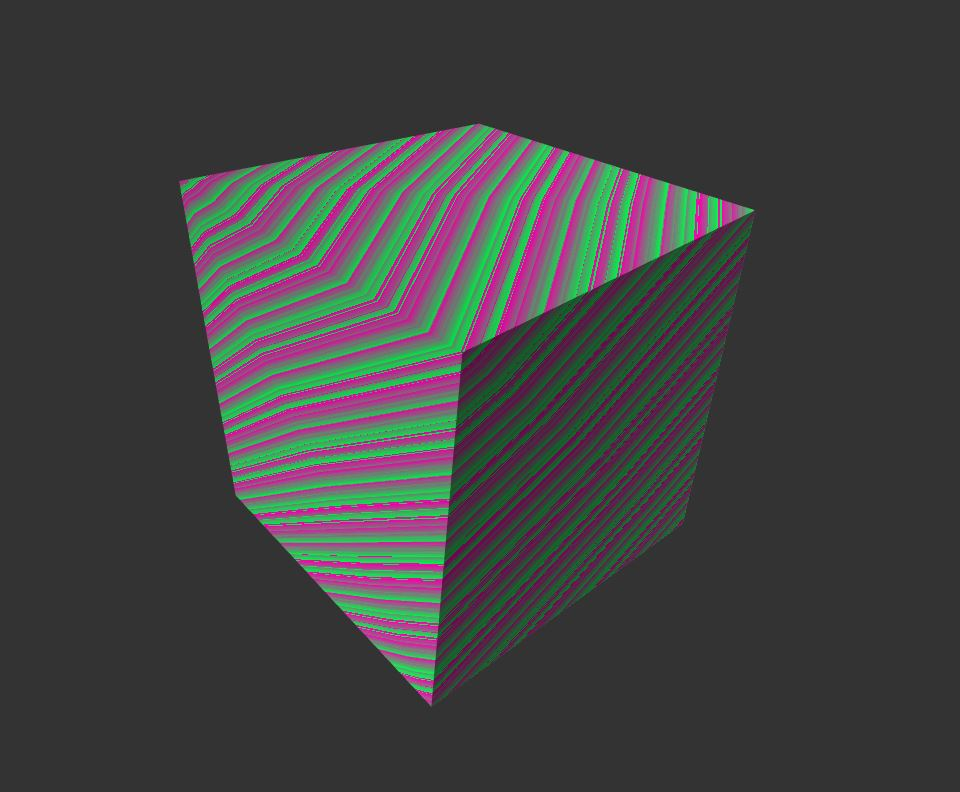
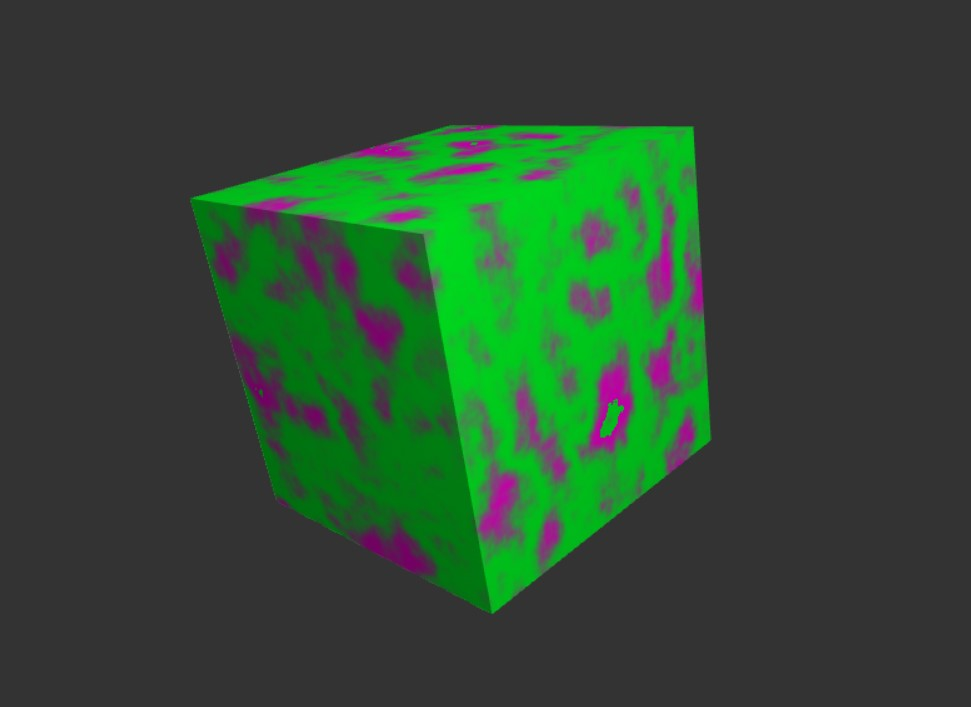
submission

diff --git a/README.md b/README.md
@@ -15,7 +15,8 @@ I manually created the cube geometry in `Cube.ts` following the examples of `Squ
 
 ### Fractal Brownian Motion in `fbm-frag.glsl`
 I wrote a fragment shader based on the example given of `lambert-frag.glsl` which implements
-Fractal Brownian Motion. The resulting noise is used as the interpolating value between the user's
+Fractal Brownian Motion. Each octave is composed of 3D Perlin noise from Stefan Gustavson's [impementation](https://gist.github.com/patriciogonzalezvivo/670c22f3966e662d2f83). The noise is animated with
+respect to time. The resulting noise is used as the interpolating value between the user's
 chosen color and that color's complement.
 
 ### Jittering Cube Effect in `trig-vert.glsl`
